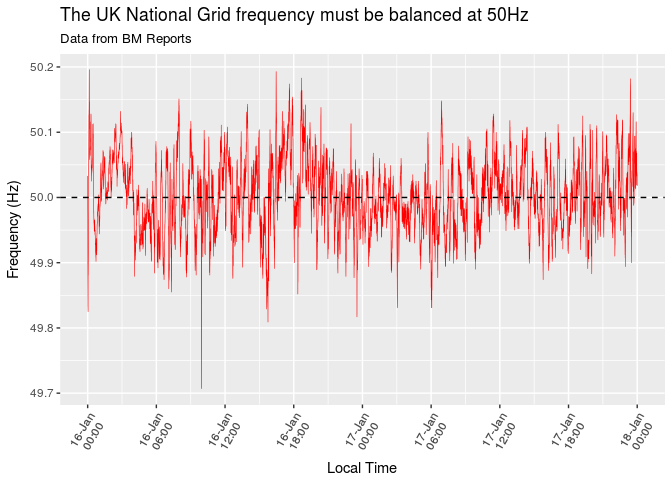
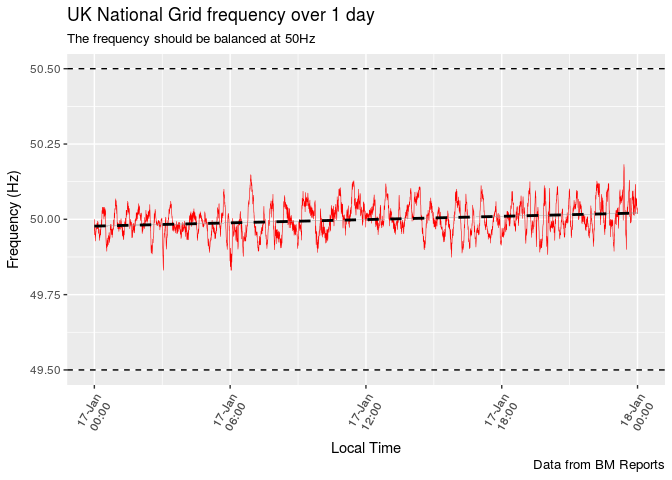
added section on differencing
* timeseries and ACF plot and discussion
* apply difference and discuss and show how this can make series stationary

diff --git a/README.md b/README.md
@@ -1,6 +1,6 @@
 BM Report Analysis
 ================
-2017-02-09
+2017-02-13
 
 Introduction
 ============
@@ -19,31 +19,36 @@ Reading the Data
 
 As discussed above, we use an API to access the BM Report data. This requires a key which is available upon registration with Elexon. The code below requires each user to enter their unique API key. If you run this code, you will be prompted to enter your personal key. The method for connecting to the API is described in Ghanty (2016) pp. 12-13.
 
-In the example below, we extract the 'Rolling System Frequency' between the 16th and 18th January, 2017. Accessing this particular data is described in Ghanty (2016) p. 81. We use the `urltools` package to encode the API URL (Universal Resource Locator) given the query. In this case, we request the data in XML (Extensible Markup Language) format.
+In this example, we will acquire the 'Rolling System Frequency' on the 17th of January, 2017. Accessing this particular data is described in Ghanty (2016) p. 81. We use the `urltools` package to encode the API URL (Universal Resource Locator) given the query. In this case, we request the data in XML (Extensible Markup Language) format.
 
 ``` r
 # get API key from user  -------------------------------------------------------
 api_key <- getPass("Enter API key")
 stopifnot(!is.null(api_key))
 
+# API query data 
+report_type <- "BMRS/FREQ"             # name of report to request from API
+start_datetime <- "2017-01-17 00:00:00"
+end_datetime <- "2017-01-18 00:00:00"
+
 # construct query API URL ------------------------------------------------------
 service_url <- paste(
     "https://api.bmreports.com:443",
-    "BMRS/FREQ",
+    report_type,
     "v1",
     sep = "/")
 
 query_url <- service_url %>% 
     param_set("APIKey", api_key) %>% 
-    param_set("FromDateTime", url_encode("2017-01-16 00:00:00")) %>% 
-    param_set("ToDateTime", url_encode("2017-01-18 00:00:00")) %>% 
+    param_set("FromDateTime", url_encode(start_datetime)) %>% 
+    param_set("ToDateTime", url_encode(end_datetime)) %>% 
     param_set("ServiceType", "xml")  
 
 # connect to API and request data ---------------------------------------------
 print(paste0("[", Sys.time(), "] Connected to BM Reports API ..."))
 ```
 
-    ## [1] "[2017-02-09 16:01:09] Connected to BM Reports API ..."
+    ## [1] "[2017-02-10 10:40:02] Connected to BM Reports API ..."
 
 ``` r
 xmlfile <- read_xml(query_url)
@@ -96,12 +101,12 @@ knitr::kable(
 
 | date\_time          |    freq|
 |:--------------------|-------:|
-| 2017-01-16 00:00:00 |  50.033|
-| 2017-01-16 00:00:15 |  49.984|
-| 2017-01-16 00:00:30 |  49.969|
-| 2017-01-16 00:00:45 |  49.908|
-| 2017-01-16 00:01:00 |  49.881|
-| 2017-01-16 00:01:15 |  49.868|
+| 2017-01-17 00:00:00 |  50.000|
+| 2017-01-17 00:00:15 |  49.962|
+| 2017-01-17 00:00:30 |  49.966|
+| 2017-01-17 00:00:45 |  49.949|
+| 2017-01-17 00:01:00 |  49.964|
+| 2017-01-17 00:01:15 |  49.954|
 
 Plotting Data
 -------------
@@ -121,23 +126,122 @@ A time series line plot gives some insight into:
 -   Anomalies, outliers, errors, etc.
 
 ``` r
+my_breaks <- seq(from = ymd_hms(start_datetime), to = ymd_hms(end_datetime),  
+                 by = "6 hours")
+
 # time series plot ------------------------------------------------------------
-df_tidy %>% ggplot(aes(date_time, freq)) +
+plt_line <- ggplot(df_tidy, aes(date_time, freq, group = 1)) +
     geom_line(colour = 'red', size = 0.2) +
-    labs(title = "The UK National Grid frequency must be balanced at 50Hz", 
-         subtitle = "Data from BM Reports",
+    labs(title = "UK National Grid frequency over 1 day", 
+         subtitle = "The frequency should be balanced at 50Hz",
+         caption = "Data from BM Reports",
          x = "Local Time",
          y = "Frequency (Hz)") +
-    geom_hline(yintercept = 50, linetype = 'dashed') +
+    geom_smooth(method = "lm", linetype = "dashed", colour = "black") + 
+    geom_hline(yintercept = c(1.01 * 50, 0.99 * 50), 
+               linetype = "dashed", colour = "black", size = 0.5) +
     scale_x_datetime(
-        breaks = 
-            seq(min(df_tidy$date_time), max(df_tidy$date_time), "6 hours"),
+        breaks = my_breaks,
         date_labels = "%d-%b\n%H:%M"
     ) + 
     theme(axis.text.x = element_text(angle = 60, vjust = 0.5))
+
+plt_line
 ```
 
 ![](README_files/figure-markdown_github/plot_df_tidy-1.png)
+
+The National Grid have an [obligation](http://www2.nationalgrid.com/uk/services/balancing-services/frequency-response/) to control the frequency within ± 1% of the nominal value of 50Hz. We have fitted a line using a linear model with gradient and intercept which is displayed with a bold black dashed line. We have also fitted 50 ± 0.5Hz reference lines. We observe a small upwards trend but the frequency is well within obligations.
+
+### Stationary Data
+
+This data has a resolution of 15 seconds so it is interesting to 'zoom in' and to observe a smaller time window.
+
+``` r
+my_xlims <- ymd_hms(c("2017-01-17 18:00:00", "2017-01-17 19:00:00"))
+my_breaks <- seq(from = my_xlims[1], my_xlims[2], by = "5 mins")
+
+plt_line + 
+    coord_cartesian(xlim = my_xlims, ylim = 50 + c(0.1, -0.1)) + 
+    geom_point(color = 'red', size = 0.7) +
+    scale_x_datetime(
+        breaks = my_breaks,
+        date_labels = "%H:%M"
+    ) +
+    labs(
+        title = "UK National Grid frequency over 1 hour",
+        subtitle = "The frequency is not stationary"
+    )
+```
+
+    ## Scale for 'x' is already present. Adding another scale for 'x', which
+    ## will replace the existing scale.
+
+![](README_files/figure-markdown_github/unnamed-chunk-1-1.png)
+
+An important class of modelling for time series data is known as ARIMA (Auto-regressive Integrated Moving Average) (Hyndman and Athanasopoulos 2014, sec. 8.1). In order to use this model, we need to understand the concept of "stationary" data. Formally, if *y*<sub>*t*</sub> is a stationary time series, then for all *s*, the distribution of (*y*<sub>*t*</sub>,…,*y*<sub>*t* + *s*</sub>) does not depend on *t*. A less formal description of stationary data is data which looks the same wherever you observe it. There should be no trending or seasonality; the data should look like white noise.
+
+When the frequency data is observed in a one hour time window, trending behavior is observed. The slowly decaying ACF (Auto-correlation Function) provides further evidence. Note that the ACF plot if for the *whole* data set.
+
+``` r
+ggAcf(df_tidy$freq) +
+    labs(
+        title = "ACF for frequency time series",
+        subtitle = "The plot suggests a non-stationary time-series"
+    )
+```
+
+![](README_files/figure-markdown_github/unnamed-chunk-2-1.png)
+
+### Differences
+
+A common approach to making data stationary is to apply differencing. This means to model differences in data rather than the original data. For example, consider the plots of differences in the frequency time-series.
+
+``` r
+# note that to use time series tools, it seems better to work with
+# data as time series. Below, we run the diff on a time series, convert back
+# to a data frame and joing it
+ts_tidy <- xts::xts(df_tidy$freq, df_tidy$date_time)
+
+df_tidy <- df_tidy %>% left_join(
+    diff(ts_tidy) %>% 
+        broom::tidy() %>% 
+        select(date_time = index, diff_freq = value)
+)
+```
+
+    ## Joining, by = "date_time"
+
+``` r
+ggplot(remove_missing(df_tidy), aes(date_time, diff_freq)) +
+    geom_line(colour = 'red', size = 0.2) +
+    geom_point(color = 'red', size = 0.7) +
+    coord_cartesian(xlim = my_xlims, ylim = 0.05 * c(-1, 1)) + 
+    scale_x_datetime(
+        breaks = my_breaks,
+        date_labels = "%H:%M"
+    ) +
+    labs(
+        title = "Differenced frequency over 1 hour",
+        subtitle = "The differenced frequency is stationary"
+    ) +
+    geom_smooth(method = "lm", linetype = "dashed", colour = "black") + 
+    theme(axis.text.x = element_text(angle = 60, vjust = 0.5))
+```
+
+    ## Warning: Removed 1 rows containing missing values.
+
+![](README_files/figure-markdown_github/unnamed-chunk-3-1.png)
+
+``` r
+ggAcf(df_tidy$diff_freq) +
+    labs(
+        title = "ACF for frequency time series",
+        subtitle = "The plot suggests a stationary time-series"
+    )
+```
+
+![](README_files/figure-markdown_github/unnamed-chunk-3-2.png)
 
 References
 ==========
